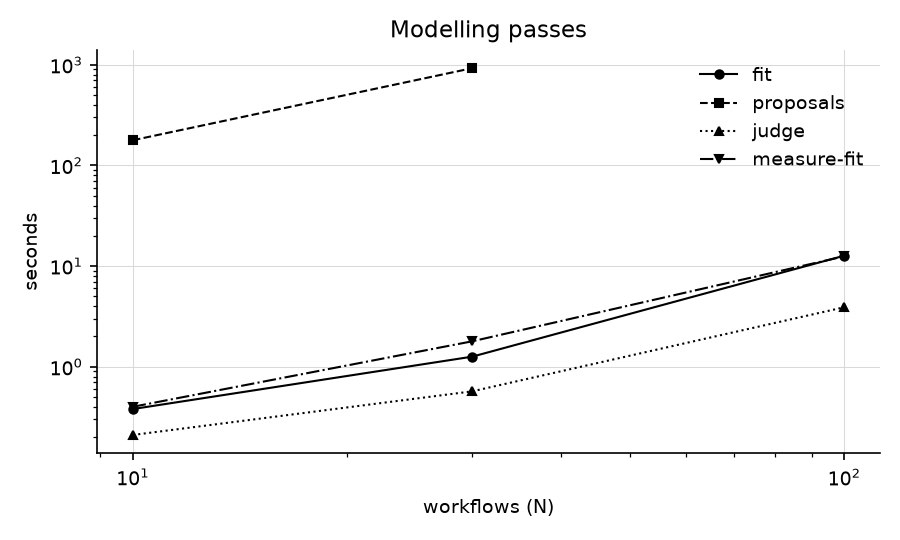
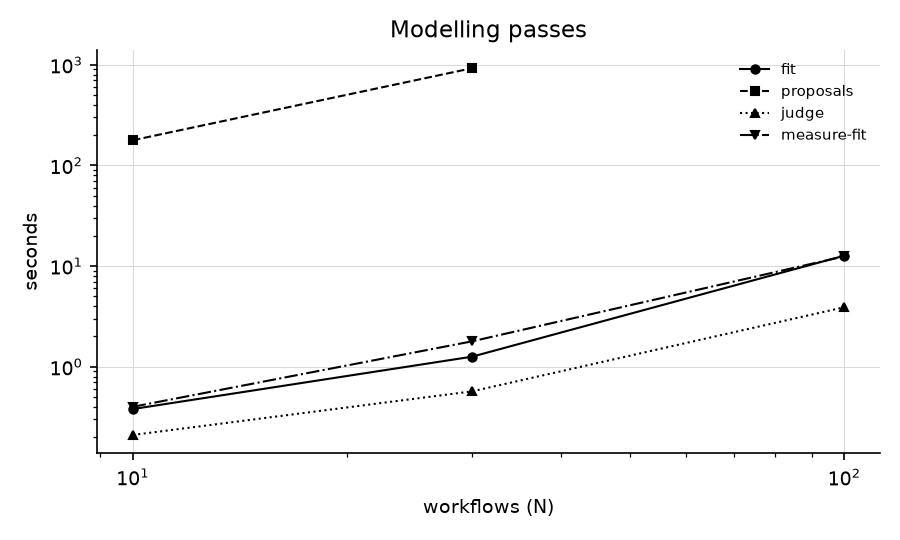
Scale: the page server's answers alone at N = 300 and 1,000; the doc complete; charts redrawn

Changed region(s): [[0.7778, 0.1185, 0.9644, 0.3259], [0.7778, 0.1778, 0.8089, 0.2074]]

diff --git a/scripts/scale_bench.py b/scripts/scale_bench.py
@@ -626,7 +626,7 @@ def cmd_chart(a) -> None:
         ax.set_title(title)
         ax.grid(True, which="major", color="0.85", linewidth=0.5)
         if len(series) > 1:
-            ax.legend(frameon=False)
+            ax.legend(frameon=False, fontsize=7, loc="best")
         if note:
             fig.text(0.01, 0.01, note, fontsize=7, color="0.3")
         fig.tight_layout()

diff --git a/docs/proposals/scale.md b/docs/proposals/scale.md
@@ -76,7 +76,8 @@ models have more flows per stock than these.)
 
 **The machine** is a 28-core Mac with 256 GB, shared with other agents' work: the load average was 12 to
 29 throughout and never fell lower, so no measurement could be repeated on a quiet machine. Every row in the
-results carries its load. The engine and the web server use one core each (Python's GIL), so a load of 20
+results carries its load. Each page server answers alone (`api`) after loading the model itself: 4.6 s at
+N = 100, 33 s at 300. The engine and the web server use one core each (Python's GIL), so a load of 20
 on 28 cores slows them less than it seems; the single-threaded timings (the tick benchmark) were repeated
 an hour apart at N = 30, 100 and 300 and moved by under 4%.
 
@@ -217,13 +218,13 @@ the answers before it, given up by the client, were still being computed (a requ
 |---|---:|---:|---:|
 | `status` | 13 s / **148 s** / ~54 min (stopped; it runs `check`'s 54-minute tests) | 0.1 s / 0.2 s | 34 KB / 123 KB |
 | `graph` (the Diagram page, everything) | 1.1 s / 19 s / > 300 s (in turn) | 1.0 s / 13 s | 0.76 MB / 1.0 MB |
-| `graph?view=dynamics` | 1.2 s / 14 s / 74 s (alone) / API300D | 1.1 s / 12 s | 0.76 MB / 1.0 MB / 1.7 MB |
-| `graph?view=dynamics&system=sys-001` | 2.7 s / 14 s / 151 s (alone) / API300S / API1000S | 1.2 s / 6.5 s | 1.1 MB / 1.5 MB / 1.6 MB |
+| `graph?view=dynamics` | 1.2 s / 14 s / 74 s (alone) / **584 s** (alone) | 1.1 s / 12 s | 0.76 MB / 1.0 MB / 1.7 MB / 3.5 MB |
+| `graph?view=dynamics&system=sys-001` | 2.7 s / 14 s / 151 s (alone) | 1.2 s / 6.5 s | 1.1 MB / 1.5 MB / 1.6 MB |
 | `graph?view=dynamics&open=org,area-01,sys-001` | 1.7 s / 7.1 s / > 300 s (in turn) | 1.8 s / 6.6 s | 1.2 MB / 1.7 MB |
 | `graph?view=dynamics&open=*` | – / 6.7 s / > 300 s (in turn) | – / 7.1 s | – / 2.5 MB |
 | `graph?view=blocks` | 2.2 s / **51 s** / **> 1,500 s** (alone) | 2.3 s / 58 s | 76 KB / 243 KB |
-| `loops` | 0.11 s / 0.35 s / 1.7 s / API300L / API1000L | 0.07 s / 0.002 s | 31 KB / 117 KB / 305 KB |
-| `items` | 0.5 s / 0.19 s / 0.005 s / API300I / API1000I | 0.4 s / 0.04 s | 14 KB / 67 KB / 106 KB |
+| `loops` | 0.11 s / 0.35 s / 1.7 s / 2.6 s / no answer: the server is still loading the model after 5 min | 0.07 s / 0.002 s | 31 KB / 117 KB / 305 KB / 701 KB |
+| `items` | 0.5 s / 0.19 s / 0.005 s / 2.5 s / no answer (the same) | 0.4 s / 0.04 s | 14 KB / 67 KB / 106 KB |
 
 | Page (N = 10 / 30 / 100) | drawn | lines routed | shapes | API bytes while it drew |
 |---|---:|---:|---:|---:|
@@ -241,7 +242,7 @@ For comparison, `examples/the-job` (43 stocks, 61 flows) and `examples/image-squ
 diagram pages today is the browser's layout and routing, which at N = 10 (173 shapes) already takes 12 s to
 draw and 50 s to route one system.
 
-- **The bends**: the server's graph answer goes as N^2.3 (dynamics) and N^2.9 (blocks); the first
+- **The bends**: the server's graph answer goes as N^1.9 to N^2.3 (dynamics: 1.2 s, 14 s, 74 s, 584 s) and N^2.9 (blocks); the first
   `status` as N^2.2; the browser's routing as about shapes^2.8.
 - **Polling makes it worse**: the Diagram page asks for its graph every 2.5 s (`static/diagram.js`,
   `poll(tick, 2500)`). Once an answer takes longer than that, every poll is a whole graph computed again
